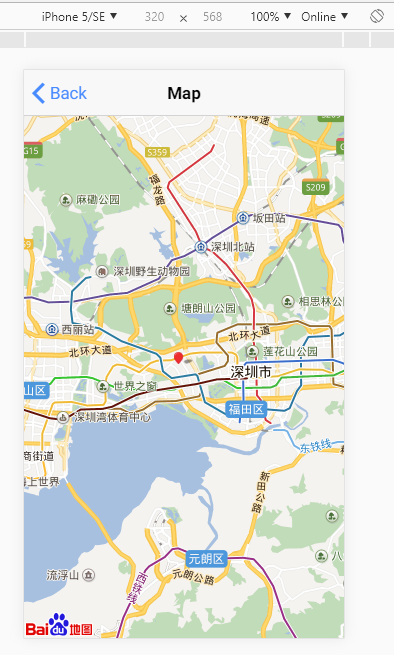
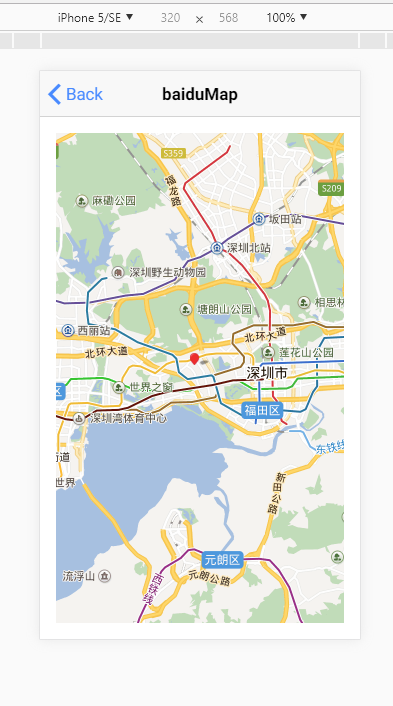
编译

diff --git a/src/pages/test-map/test-map.html b/src/pages/test-map/test-map.html
@@ -14,18 +14,24 @@
 
 
 <ion-content>
-  <ion-slides class="map-slides">
+  <ion-slides class="map-slides" pager>
     <ion-slide>
+
       <h2>Slide 1</h2>
+    
     </ion-slide>
     <ion-slide>
       <ion-content padding>
+
         <baidu-map></baidu-map>
+
       </ion-content>
     </ion-slide>
     <ion-slide>
       <ion-content padding>
+
         <gaode-map></gaode-map>
+     
       </ion-content>
     </ion-slide>
   </ion-slides>

diff --git a/src/components/baidu-map/baidu-map.ts b/src/components/baidu-map/baidu-map.ts
@@ -29,6 +29,7 @@ export class BaiduMapComponent {
     let geolocation = new BMap.Geolocation();
     geolocation.getCurrentPosition(function (r) {
       if (this.getStatus() == BMAP_STATUS_SUCCESS) {
+        console.log(`百度地图定位成功    lng：${r.point.lng},lat：${r.point.lat}`)
         map.centerAndZoom(r.point, 12);
         let mk = new BMap.Marker(r.point);
         map.addOverlay(mk);

diff --git a/src/pages/home/home.html b/src/pages/home/home.html
@@ -6,6 +6,6 @@
 
 <ion-content padding>
   <button ion-button block (click)="goBaiduMap()">baiduMap</button>
-  <button ion-button block (click)="goGaodeMap()">GaodeMap</button>
+  <button ion-button block (click)="goGaodeMap()">gaodeMap</button>
   <button ion-button block (click)="testMap()">ion-slides</button>
 </ion-content>

diff --git a/src/pages/test-map/test-map.scss b/src/pages/test-map/test-map.scss
@@ -2,6 +2,12 @@ page-test-map {
     .map-slides {
         .slide-zoom {
             height: 100%;
+            baidu-map {
+                height: 300px;
+            }
+            gaode-map {
+                height: 300px;
+            }
         }
     }
 }
